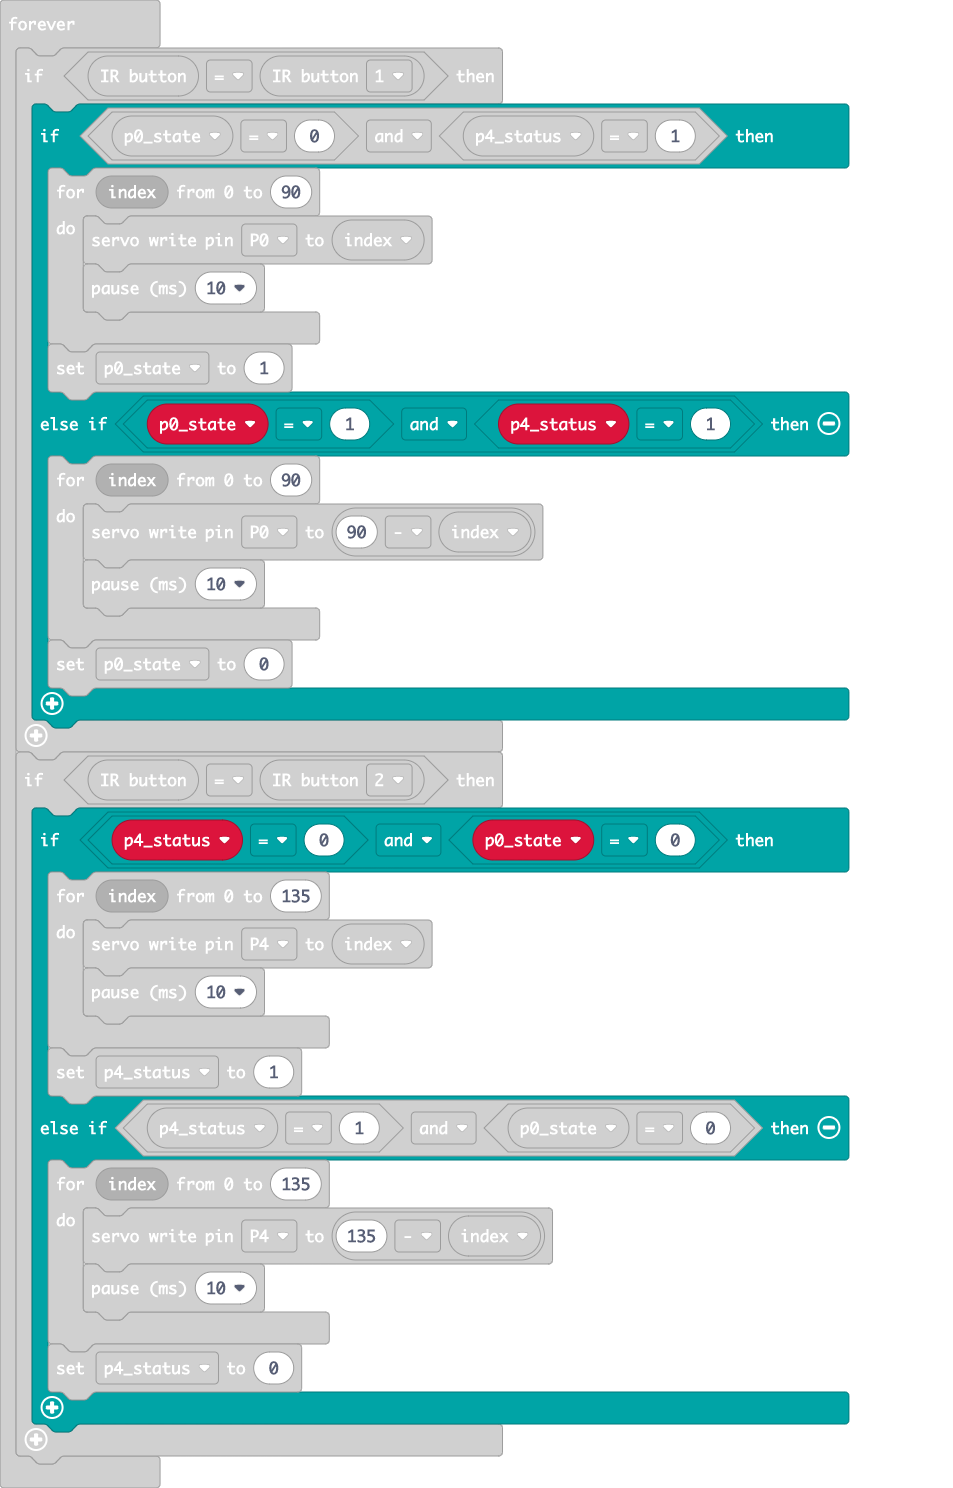
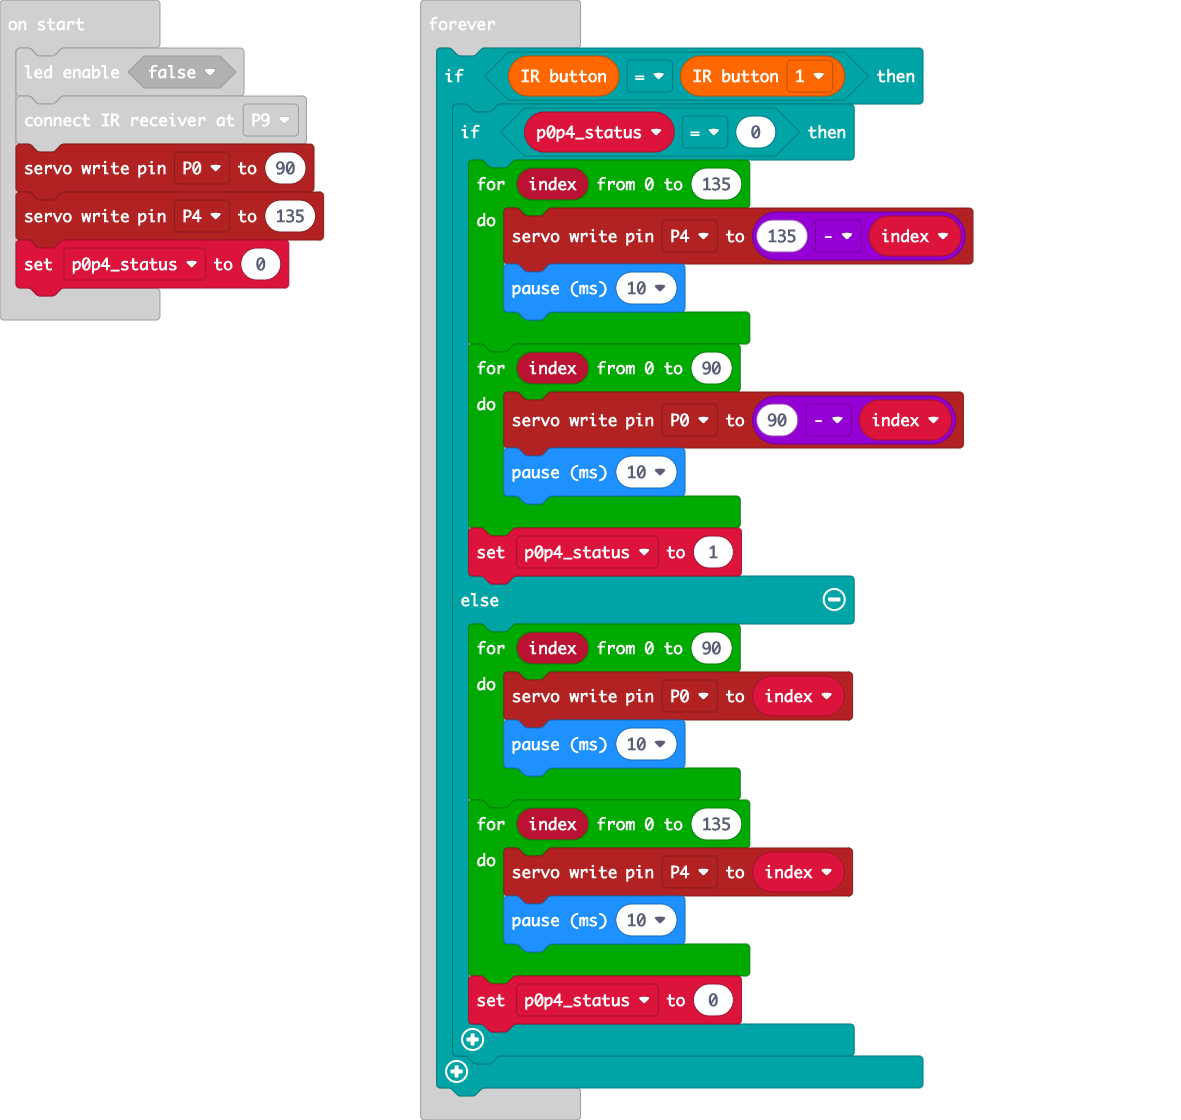
Update main.blocks, main.ts

diff --git a/main.ts b/main.ts
@@ -1,38 +1,30 @@
 led.enable(false)
 irRemote.connectInfrared(DigitalPin.P9)
-let p0_state = 0
 pins.servoWritePin(AnalogPin.P0, 90)
-let p4_status = 0
 pins.servoWritePin(AnalogPin.P4, 135)
+let p0p4_status = 0
 basic.forever(function () {
     if (irRemote.returnIrButton() == irRemote.irButton(IrButton.Number_1)) {
-        if (p0_state == 0 && p4_status == 1) {
-            for (let index = 0; index <= 90; index++) {
-                pins.servoWritePin(AnalogPin.P0, index)
-                basic.pause(10)
-            }
-            p0_state = 1
-        } else if (p0_state == 1 && p4_status == 1) {
-            for (let index = 0; index <= 90; index++) {
-                pins.servoWritePin(AnalogPin.P0, 90 - index)
-                basic.pause(10)
-            }
-            p0_state = 0
-        }
-    }
-    if (irRemote.returnIrButton() == irRemote.irButton(IrButton.Number_2)) {
-        if (p4_status == 0 && p0_state == 0) {
-            for (let index = 0; index <= 135; index++) {
-                pins.servoWritePin(AnalogPin.P4, index)
-                basic.pause(10)
-            }
-            p4_status = 1
-        } else if (p4_status == 1 && p0_state == 0) {
+        if (p0p4_status == 0) {
             for (let index = 0; index <= 135; index++) {
                 pins.servoWritePin(AnalogPin.P4, 135 - index)
                 basic.pause(10)
             }
-            p4_status = 0
+            for (let index = 0; index <= 90; index++) {
+                pins.servoWritePin(AnalogPin.P0, 90 - index)
+                basic.pause(10)
+            }
+            p0p4_status = 1
+        } else {
+            for (let index = 0; index <= 90; index++) {
+                pins.servoWritePin(AnalogPin.P0, index)
+                basic.pause(10)
+            }
+            for (let index = 0; index <= 135; index++) {
+                pins.servoWritePin(AnalogPin.P4, index)
+                basic.pause(10)
+            }
+            p0p4_status = 0
         }
     }
 })
